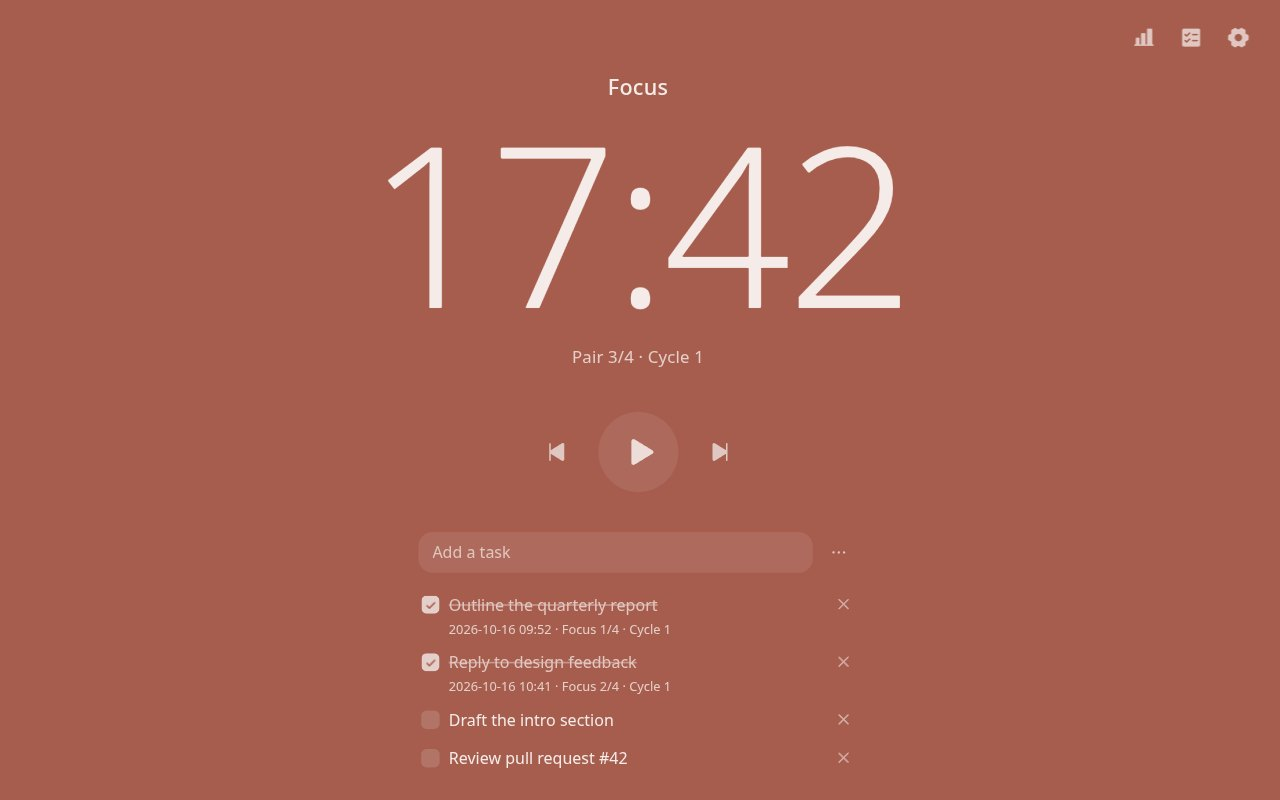
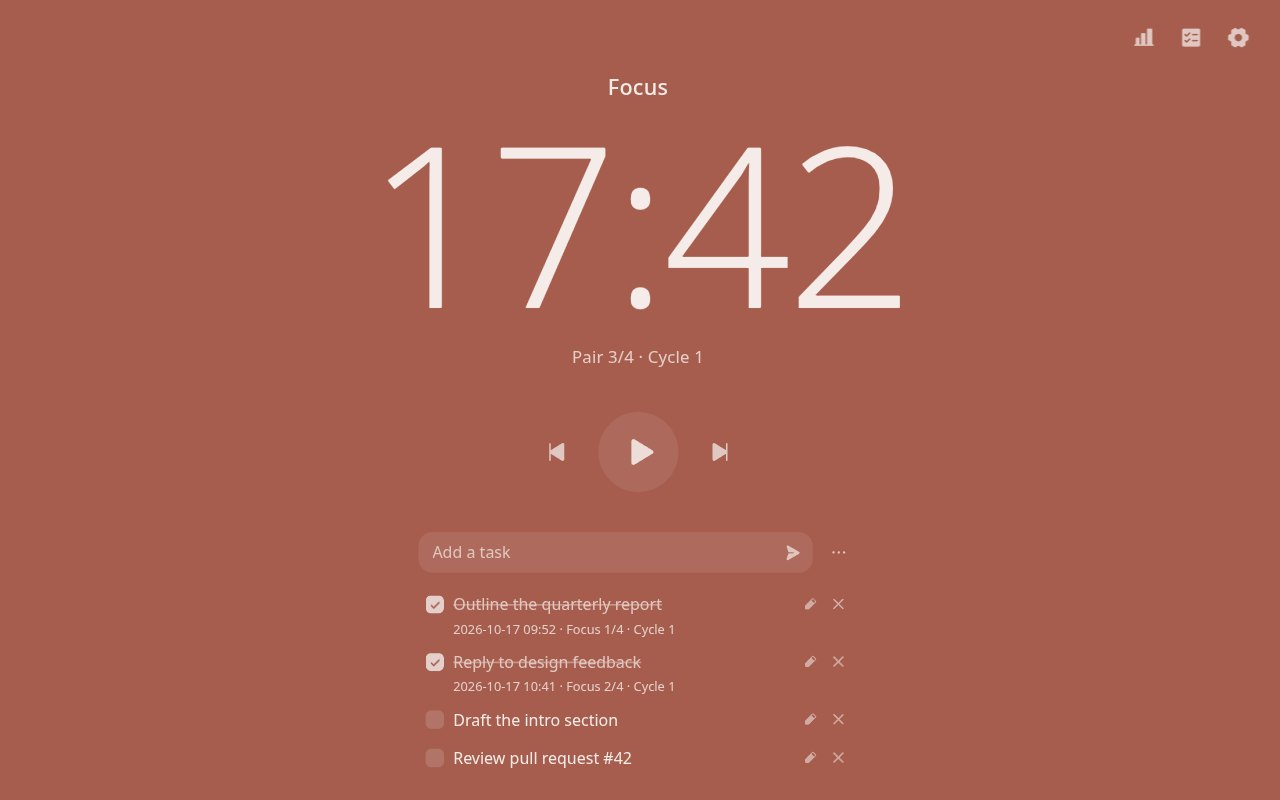
Send button in the task field; README brought up to date
- Send button inside the task input; empty input is ignored without a browser bubble
- README: task editing and bulk delete, report keeps deleted tasks, reset, full-screen panels on phones
- Fresh screenshots

diff --git a/index.html b/index.html
@@ -49,7 +49,7 @@
     <section id="todos" aria-label="To-do list" inert>
       <div class="todos-inner">
         <div class="todo-bar">
-          <form id="todo-add"><input name="text" placeholder="Add a task" maxlength="200" required aria-label="New task" autocomplete="off"></form>
+          <form id="todo-add" novalidate><input name="text" placeholder="Add a task" maxlength="200" aria-label="New task" autocomplete="off"><button class="icon send" aria-label="Add task"><svg viewBox="0 0 256 256" aria-hidden="true"><path d="M240,127.89a16,16,0,0,1-8.18,14L63.9,237.9A16.15,16.15,0,0,1,56,240a16,16,0,0,1-15-21.33l27-79.95A4,4,0,0,1,71.72,136H144a8,8,0,0,0,8-8.53,8.19,8.19,0,0,0-8.26-7.47h-72a4,4,0,0,1-3.79-2.72l-27-79.94A16,16,0,0,1,63.84,18.07l168,95.89A16,16,0,0,1,240,127.89Z"/></svg></button></form>
           <button id="todo-menu-btn" class="icon" popovertarget="todo-menu" aria-label="Task options"><svg viewBox="0 0 256 256" aria-hidden="true"><path d="M144,128a16,16,0,1,1-16-16A16,16,0,0,1,144,128ZM60,112a16,16,0,1,0,16,16A16,16,0,0,0,60,112Zm136,0a16,16,0,1,0,16,16A16,16,0,0,0,196,112Z"/></svg></button>
         </div>
         <div id="todo-menu" popover aria-label="Task options">

diff --git a/style.css b/style.css
@@ -316,7 +316,11 @@ kbd {
 .todos-inner { transition: padding .45s cubic-bezier(.25, 1, .5, 1); }
 /* Input plus the options button on one line. */
 .todo-bar { display: flex; gap: .4rem; align-items: center; }
-#todo-add { flex: 1; }
+#todo-add { flex: 1; position: relative; }
+/* Send button sits inside the right end of the field. */
+#todo-add .send { position: absolute; right: .3rem; top: 50%; translate: 0 -50%; padding: .45rem; opacity: .7; }
+#todo-add .send:hover { opacity: 1; }
+#todo-add .send svg { width: 1.05rem; height: 1.05rem; }
 #todo-menu-btn svg { width: 1.25rem; height: 1.25rem; }
 
 #todo-menu {
@@ -340,7 +344,7 @@ kbd {
 .menu-hint { margin: .3rem .7rem .25rem; font-size: .75rem; color: #6b635b; }
 
 #todo-add input {
-  width: 100%; font: inherit; color: inherit; padding: .6rem .9rem;
+  width: 100%; font: inherit; color: inherit; padding: .6rem 2.8rem .6rem .9rem; /* right: room for the send button */
   background: color-mix(in oklab, currentColor 10%, transparent);
   border: none; border-radius: .9rem;
   transition: background-color .2s, box-shadow .2s;

diff --git a/app.js b/app.js
@@ -470,6 +470,7 @@ $('#todo-add').addEventListener('submit', e => {
   e.preventDefault();
   const input = e.target.text, text = input.value.trim();
   input.value = '';
+  input.focus(); // after a click on send, keep typing the next task
   if (text) addTodos([{ text, done: null }]);
 });
 list.addEventListener('change', e => {

diff --git a/README.md b/README.md
@@ -22,7 +22,7 @@ The next step waits until you press play, unless you turn on auto-start. Each ne
 
 ### Tasks
 
-You can keep a to-do list under the timer and hide it when you don't need it. A checked-off task records the time and the step you finished it in. The list exports and imports as a Markdown checklist.
+You can keep a to-do list under the timer and hide it when you don't need it. Tasks can be edited or deleted one at a time, and the ⋯ menu clears completed, incomplete or all tasks at once. A checked-off task records the time and the step you finished it in, and it stays counted in your report even after you delete it. The list exports and imports as a Markdown checklist.
 
 ### Personal report
 
@@ -30,7 +30,7 @@ The report shows your streak, focus and break time, pomodori finished and tasks 
 
 ### Settings
 
-You can change colors, the font, the timer's weight and style, alarm and click pitches, and separate volumes for the alarm and clicks. Settings export to a JSON file you can load in another browser.
+You can change colors, the font, the timer's weight and style, alarm and click pitches, and separate volumes for the alarm and clicks. Settings export to a JSON file you can load in another browser, and one button puts everything back to the defaults. On a phone, Settings and the report open full screen.
 
 ## Keyboard
 
